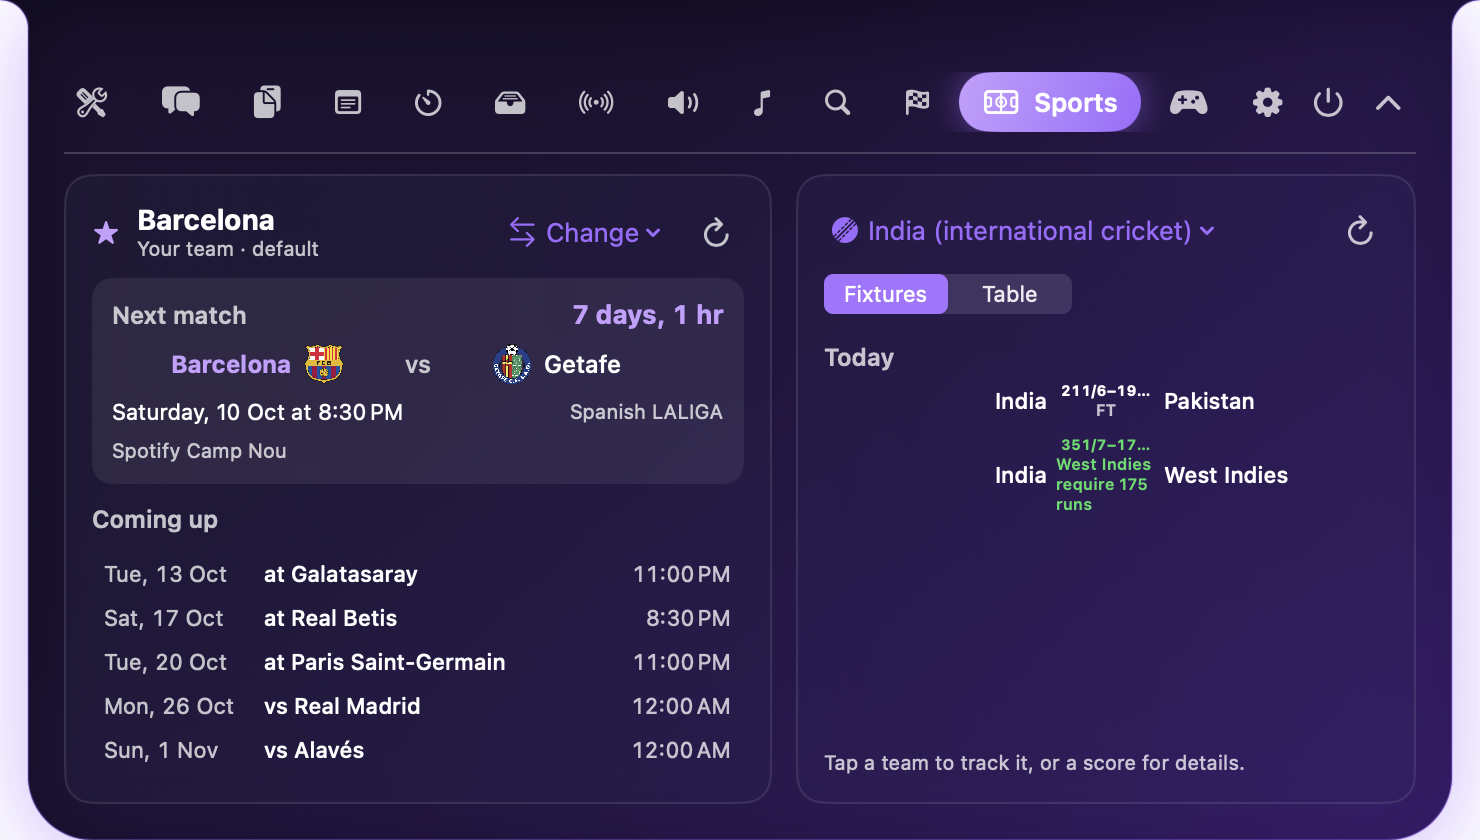
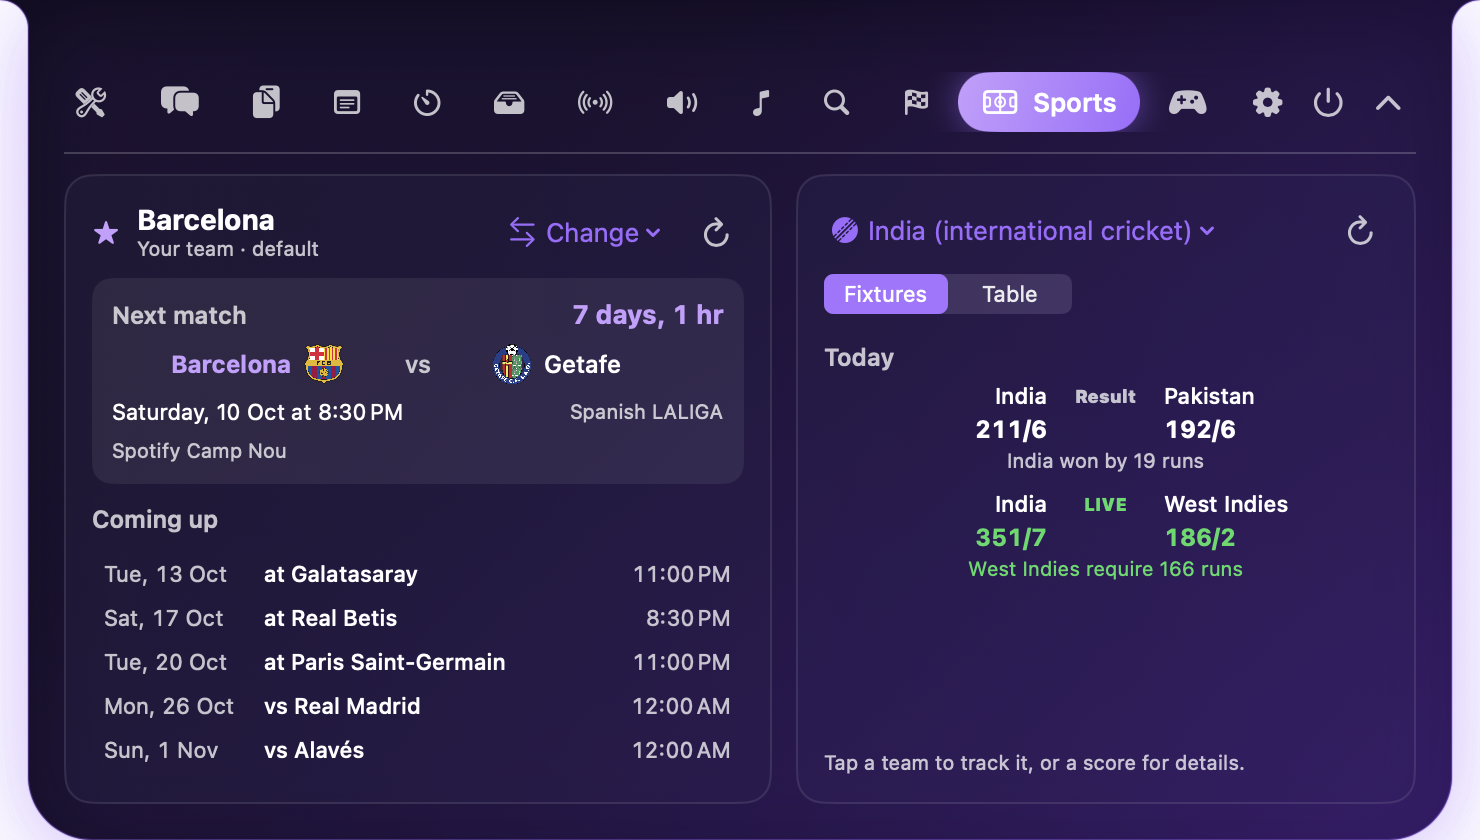
1.15.3: clearer cricket rows (scores under names, status on its own line)

diff --git a/NotchApple/Modules/Sports/SportsView.swift b/NotchApple/Modules/Sports/SportsView.swift
@@ -402,27 +402,50 @@ struct SportsView: View {
 
     private func leagueRow(_ m: SportsModel.Match) -> some View {
         let involvesMine = m.home.id == sports.teamID || m.away.id == sports.teamID
-        return HStack(spacing: 4) {
-            teamButton(m.home, alignment: .trailing)
-            VStack(spacing: 0) {
-                if m.state == "pre" {
-                    Text(m.date.formatted(.dateTime.hour().minute())).font(.system(size: 11).monospacedDigit()).foregroundStyle(Theme.textSecondary)
-                } else {
-                    Text("\(short(m.home.score))–\(short(m.away.score))").font(.system(size: 12, weight: .bold).monospacedDigit())
-                        .minimumScaleFactor(0.6).lineLimit(1)
-                        .foregroundStyle(m.isLive ? Color.green : .white)
-                    Text(m.isLive ? m.detail : "FT").font(.system(size: 8, weight: .semibold))
-                        .foregroundStyle(m.isLive ? Color.green : Theme.textSecondary)
+        // Cricket scores ("351/7") and status lines ("West Indies require 175 runs") are long:
+        // a wider score column, each side's score under its name, and the status on its own line.
+        let cricket = m.leaguePath.hasPrefix("cricket")
+        return VStack(spacing: 2) {
+            HStack(spacing: 4) {
+                teamButton(m.home, alignment: .trailing)
+                VStack(spacing: 0) {
+                    if m.state == "pre" {
+                        Text(m.date.formatted(.dateTime.hour().minute())).font(.system(size: 11).monospacedDigit()).foregroundStyle(Theme.textSecondary)
+                    } else if cricket {
+                        Text(m.isLive ? "LIVE" : "Result").font(.system(size: 9, weight: .heavy))
+                            .foregroundStyle(m.isLive ? Color.green : Theme.textSecondary)
+                    } else {
+                        Text("\(short(m.home.score))–\(short(m.away.score))").font(.system(size: 12, weight: .bold).monospacedDigit())
+                            .minimumScaleFactor(0.6).lineLimit(1)
+                            .foregroundStyle(m.isLive ? Color.green : .white)
+                        Text(m.isLive ? m.detail : "FT").font(.system(size: 8, weight: .semibold)).lineLimit(1)
+                            .foregroundStyle(m.isLive ? Color.green : Theme.textSecondary)
+                    }
+                }
+                .frame(width: 50)
+                .contentShape(Rectangle())
+                .onTapGesture { sports.openDetail(m) }
+                .help(cricket ? "Match details" : "Goals, cards and lineups")
+                teamButton(m.away, alignment: .leading)
+            }
+            if cricket && m.state != "pre" {
+                HStack(spacing: 4) {
+                    Text(short(m.home.score)).frame(maxWidth: .infinity, alignment: .trailing)
+                    Color.clear.frame(width: 50, height: 1)
+                    Text(short(m.away.score)).frame(maxWidth: .infinity, alignment: .leading)
+                }
+                .font(.system(size: 12, weight: .bold).monospacedDigit())
+                .foregroundStyle(m.isLive ? Color.green : .white)
+                if !m.detail.isEmpty {
+                    Text(m.detail).font(.system(size: 10)).foregroundStyle(m.isLive ? Color.green : Theme.textSecondary)
+                        .lineLimit(2).multilineTextAlignment(.center).frame(maxWidth: .infinity)
                 }
             }
-            .frame(width: 50)
-            .contentShape(Rectangle())
-            .onTapGesture { sports.openDetail(m) }
-            .help("Goals, cards and lineups")
-            teamButton(m.away, alignment: .leading)
         }
         .padding(.vertical, 3).padding(.horizontal, 4)
         .background(involvesMine ? Theme.accent.opacity(0.22) : .clear, in: RoundedRectangle(cornerRadius: 6))
+        .contentShape(Rectangle())
+        .onTapGesture { if cricket { sports.openDetail(m) } }
     }
 
     private func teamButton(_ s: SportsModel.Side, alignment: Alignment) -> some View {

diff --git a/NotchApple/Core/WhatsNew.swift b/NotchApple/Core/WhatsNew.swift
@@ -21,6 +21,9 @@ struct ReleaseNote: Identifiable {
 
 enum WhatsNew {
     static let releases: [ReleaseNote] = [
+        ReleaseNote(version: "1.15.3", date: "3 October 2026", headline: "Clearer cricket scores", items: [
+            "Cricket fixtures show each side's score under its name, LIVE or Result between them, and the match status (\"West Indies require 166 runs\") on its own line instead of squeezed into the score column.",
+        ]),
         ReleaseNote(version: "1.15.2", date: "3 October 2026", headline: "Windows, charts and a full view", items: [
             "Capture a single window: hold the capture button and choose Window under the pointer, or make it the default in Settings → AI.",
             "Charts and tables are recognised (\"Looks like a chart or table\") with Explain, Summarize and Extract suggested.",

diff --git a/README.md b/README.md
@@ -201,6 +201,10 @@ All screenshots use sample data.
 
 ## What's new
 
+### 1.15.3 · 3 October 2026
+
+- **Clearer cricket scores:** each side's score under its name, LIVE or Result between them, and the match status ("West Indies require 166 runs") on its own line.
+
 ### 1.15.2 · 3 October 2026 · Windows, charts and a full view
 
 - **Window capture:** hold the capture button and pick **Window under the pointer** (or make it the default in Settings → AI). Captures just that window, even if others overlap it.
